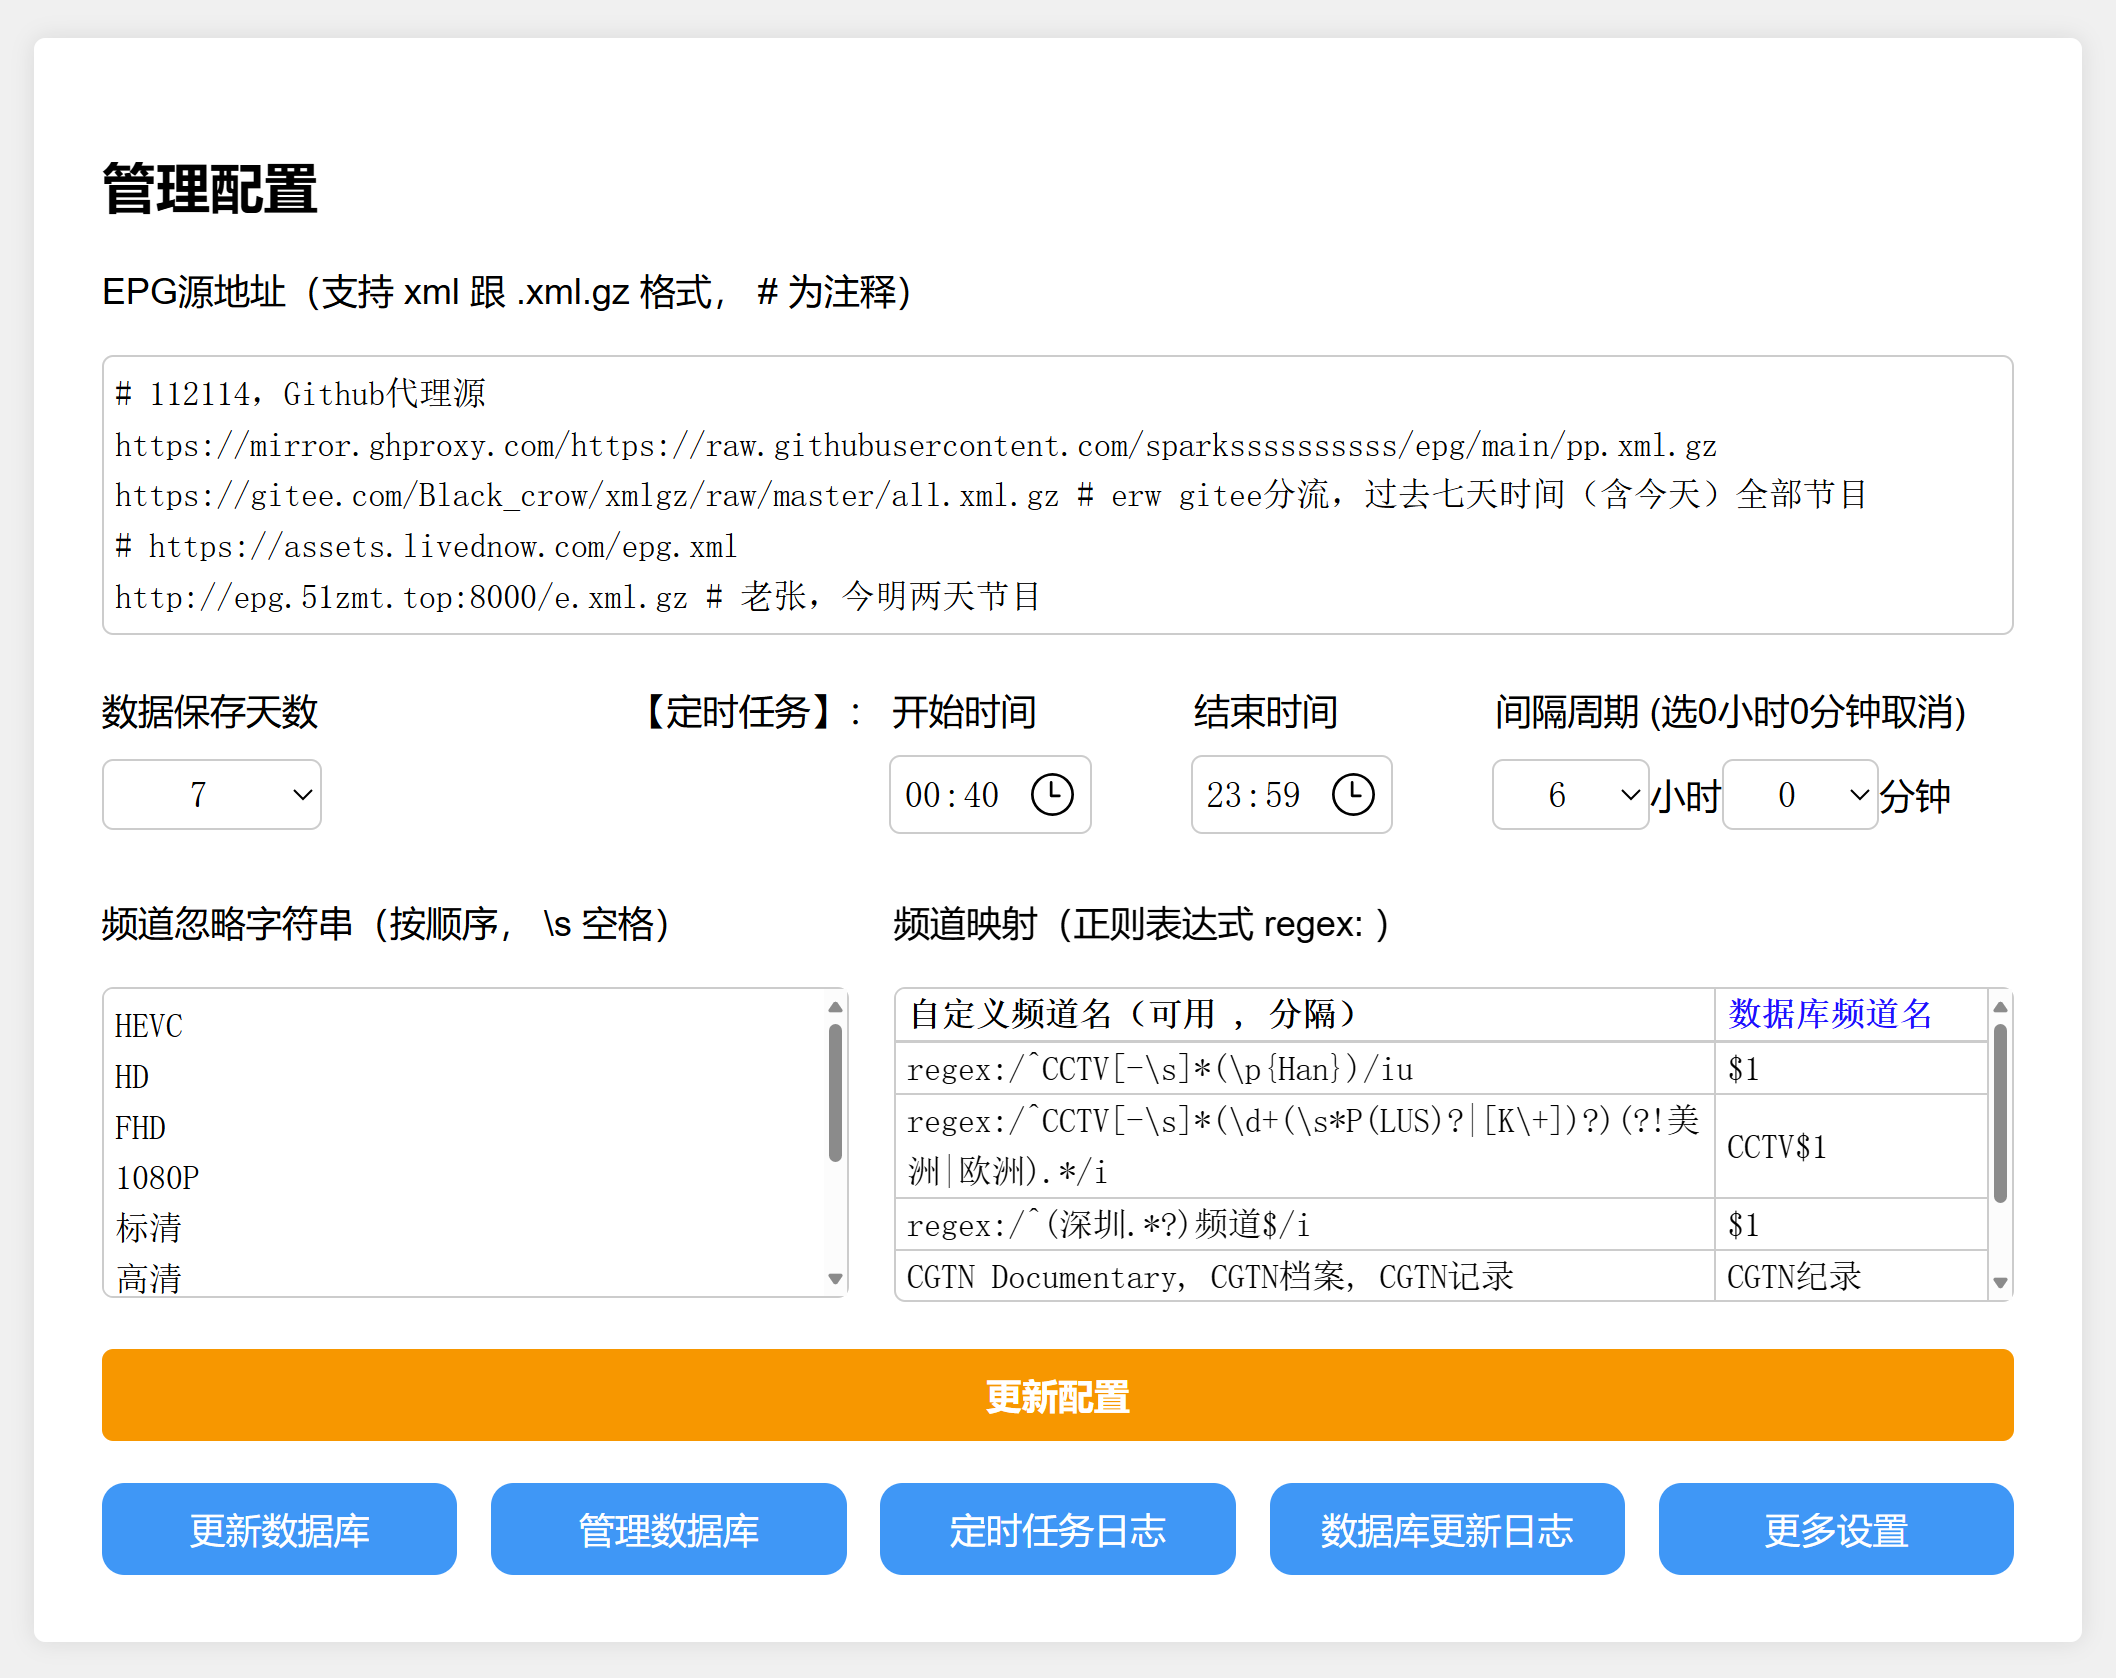
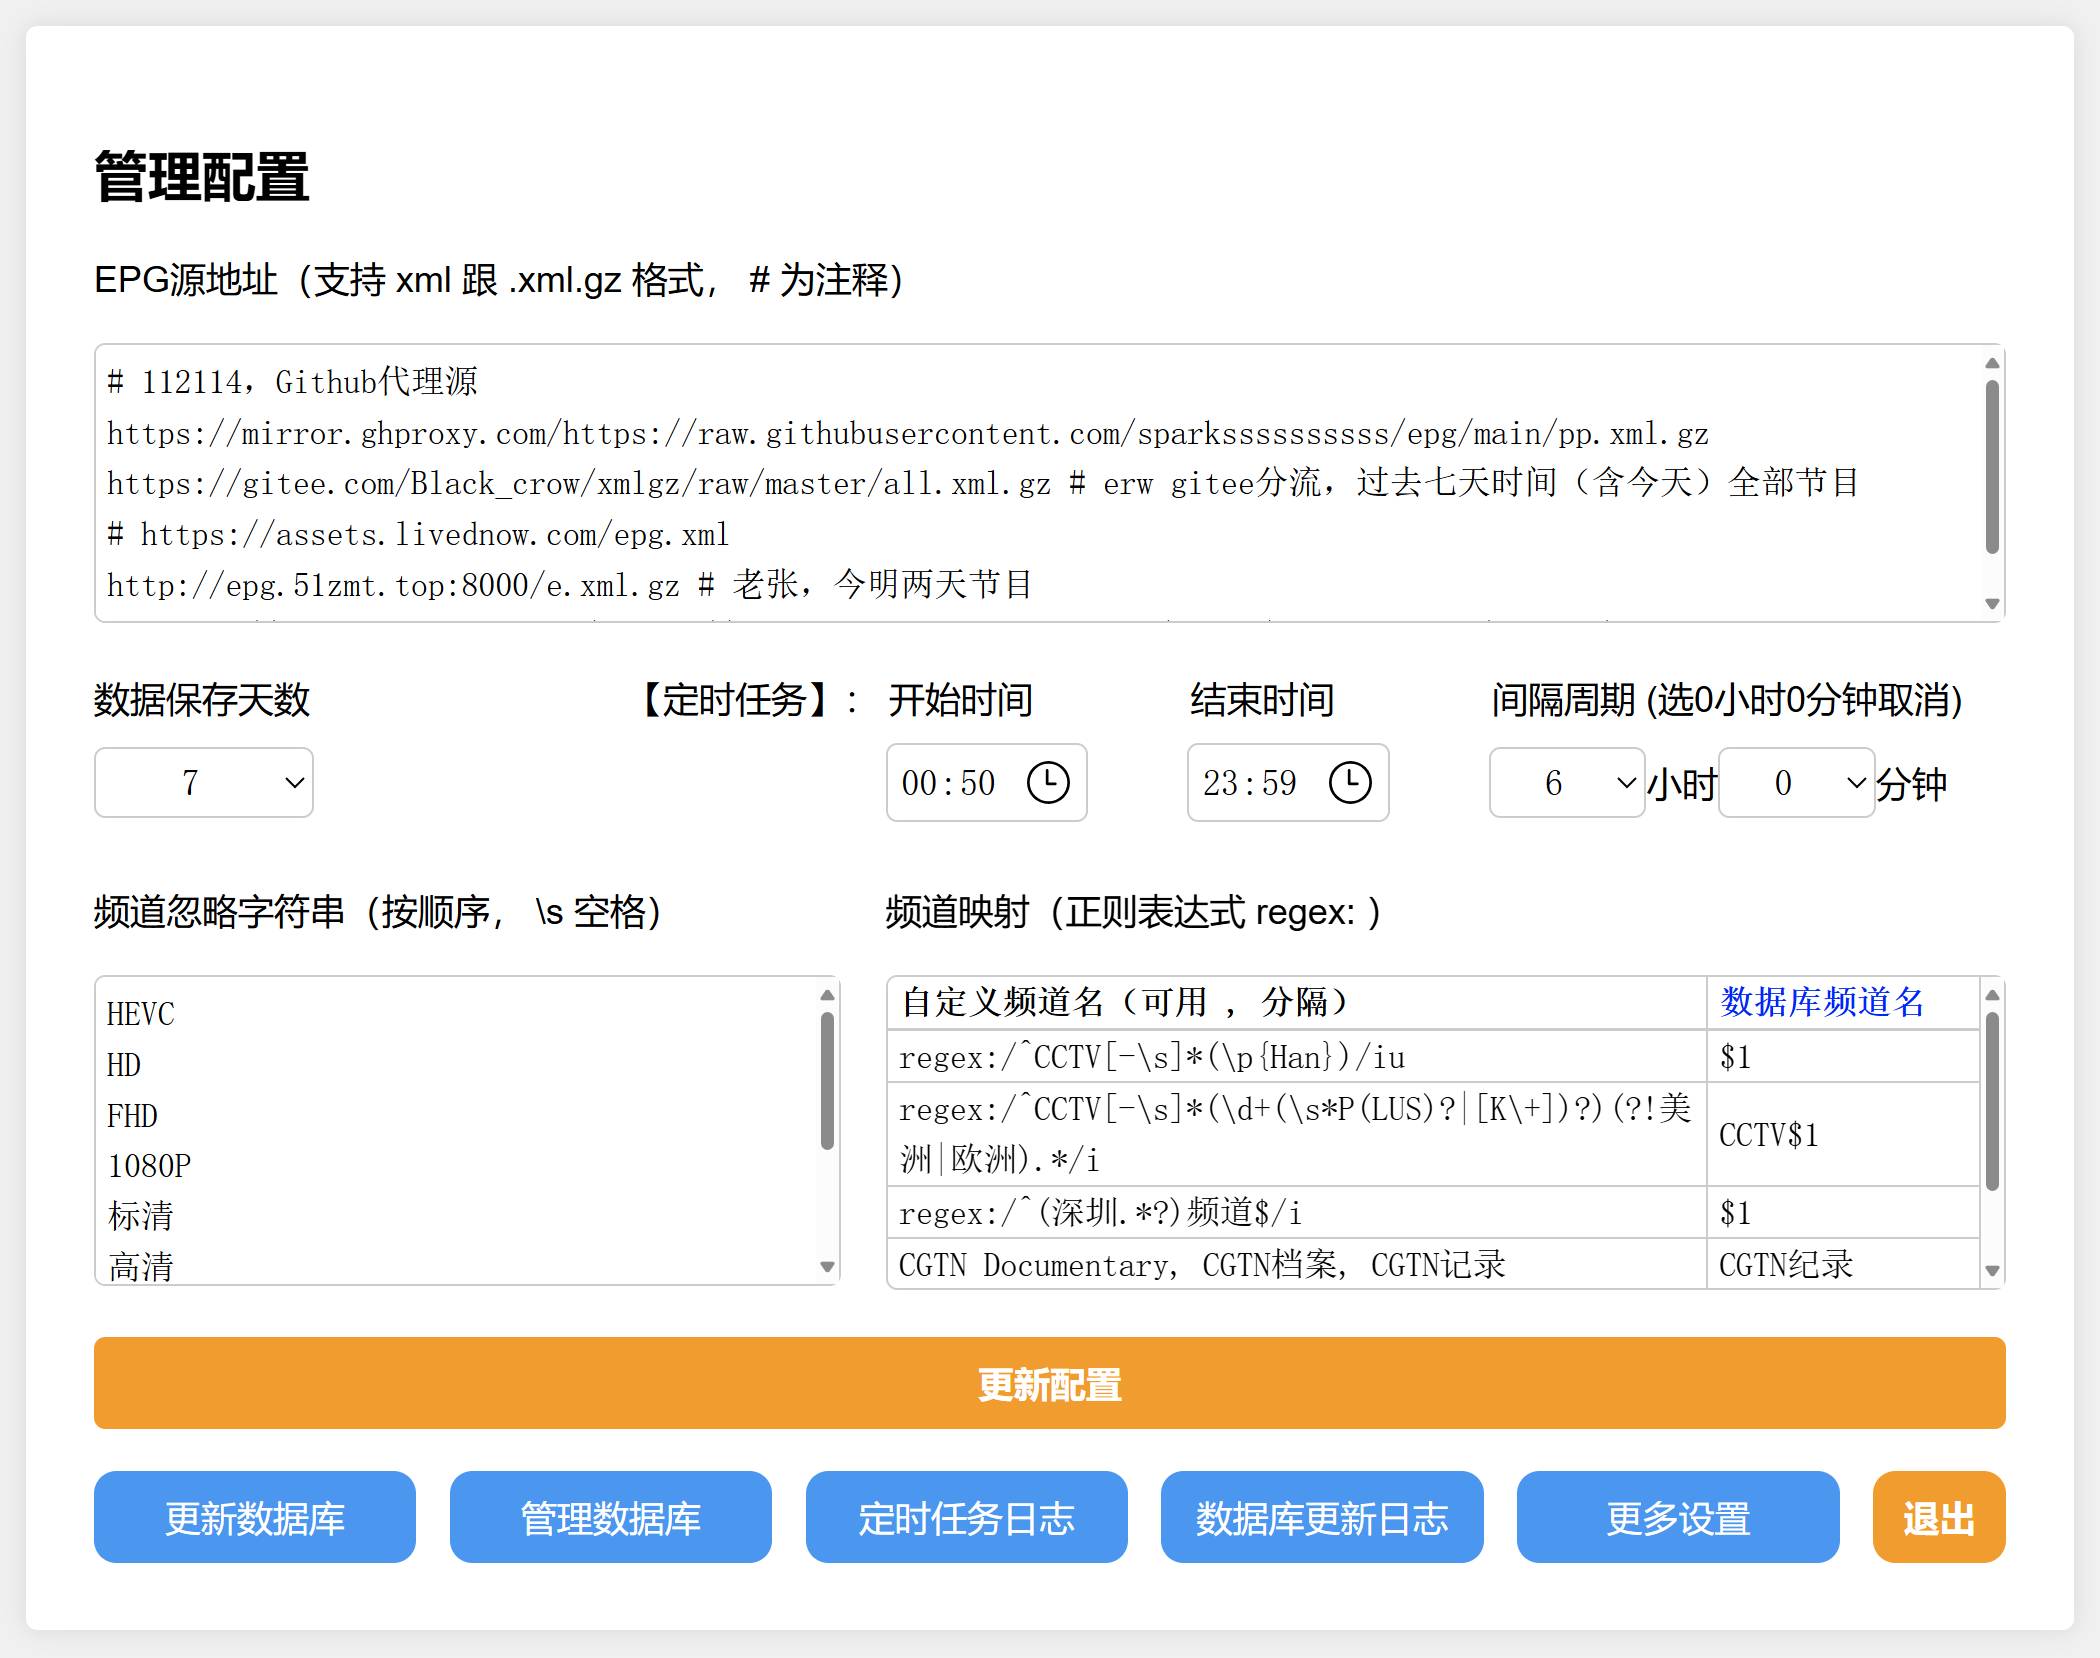
修复退出后再登录，无法查看日志的问题；改用GitHub Actions生成镜像并推送

diff --git a/epg/css/manage.css b/epg/css/manage.css
@@ -79,6 +79,7 @@ select[id="interval_hour"]{
     text-align: center;
 }
 input[type="submit"],
+.button-container button[name="logoutbtn"],
 .modal-content button {
     width: 100%;
     padding: 10px;
@@ -91,8 +92,14 @@ input[type="submit"],
     font-size: 16px;
     font-weight: bold;
 }
-input[type="submit"]:hover {
+input[type="submit"]:hover,
+.button-container button[name="logoutbtn"]:hover,
+.modal-content button:hover {
     background-color: #e68900;
+}
+.button-container button[name="logoutbtn"] {
+    border-radius: 10px;
+    width: 100px;
 }
 input[type="text"] {
     width: calc(100% - 22px);
@@ -284,7 +291,7 @@ select[id="proc_chname"] {
     padding: 5px;
     position: absolute;
     z-index: 1;
-    bottom: 125%; /* 上方显示 */
+    bottom: 110%; /* 上方显示 */
     left: 50%;
     margin-left: -60px;
     opacity: 0;

diff --git a/epg/manage.php b/epg/manage.php
@@ -17,23 +17,6 @@ require_once 'public.php';
 
 session_start();
 
-if (isset($_GET['logout'])) {
-    // 销毁所有cookies
-    if (isset($_COOKIE[session_name()])) {
-        setcookie(session_name(), '', time() - 42000);
-    }
-    foreach ($_COOKIE as $key => $value) {
-        setcookie($key, '', time() - 42000);
-    }
-    // 销毁session
-    $_SESSION = array();
-    if (ini_get("session.use_cookies")) {
-        $params = session_get_cookie_params();
-        setcookie(session_name(), '', time() - 42000, $params["path"], $params["domain"], $params["secure"], $params["httponly"]);
-    }
-    session_destroy();
-}
-
 // 设置会话变量，表明用户可以访问 phpliteadmin.php
 $_SESSION['can_access_phpliteadmin'] = true;
 
@@ -407,14 +390,15 @@ try {
         <div class="tooltip">
             <input id="updateConfig" type="submit" name="update" value="更新配置">
             <span class="tooltiptext">快捷键：Ctrl+S</span>
-        </div><br><br>
+        </div>
+        <br><br>
         <div class="button-container">
             <a href="update.php" target="_blank">更新数据库</a>
             <a href="phpliteadmin.php" target="_blank">管理数据库</a>
             <button type="button" onclick="showModal('cron')">定时任务日志</button>
-            <button type="button" onclick="showModal('update')">更新日志</button>
+            <button type="button" onclick="showModal('update')">数据库更新日志</button>
             <button type="button" onclick="showModal('moresetting')">更多设置</button>
-            <button type="button" onclick="location.href='manage.php?logout=true';">退出</button>
+            <button type="button" name="logoutbtn" onclick="logout()">退出</button>
         </div>
     </form>
 </div>
@@ -511,6 +495,19 @@ try {
 </div>
 
 <script>
+    // 退出登录
+    function logout() {
+        // 清除所有cookies
+        document.cookie.split(";").forEach(function(cookie) {
+            var name = cookie.split("=")[0].trim();
+            document.cookie = name + '=;expires=Thu, 01 Jan 1970 00:00:00 GMT;path=/';
+        });        
+        // 清除本地存储
+        sessionStorage.clear();
+        // 重定向到登录页面
+        window.location.href = 'manage.php';
+    }
+
     // 频道映射自动添加空行
     function addRowIfNeeded(cell) {
         var row = cell.parentElement;
